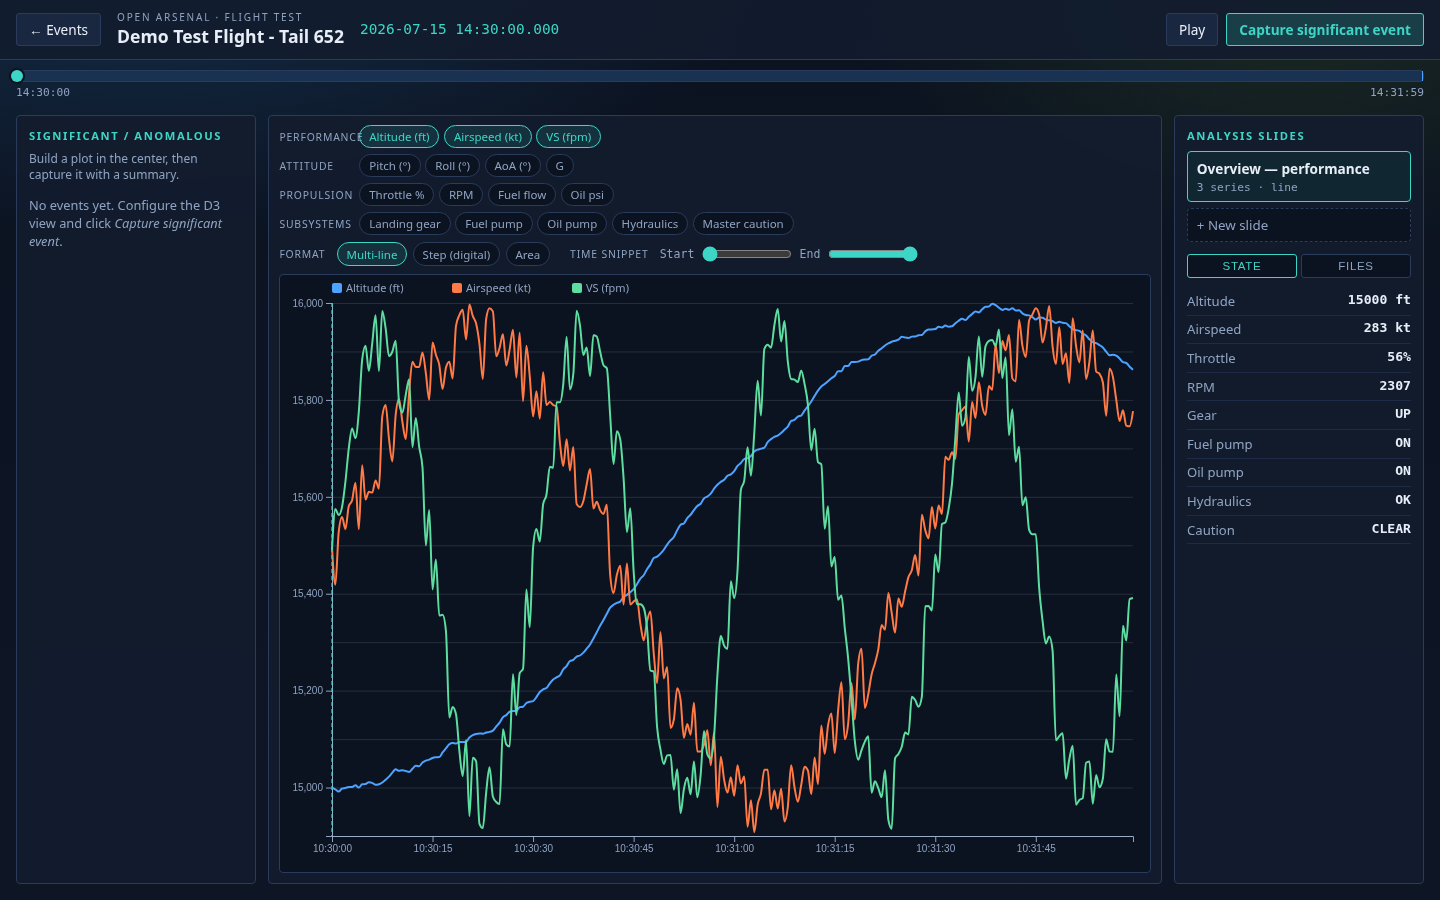
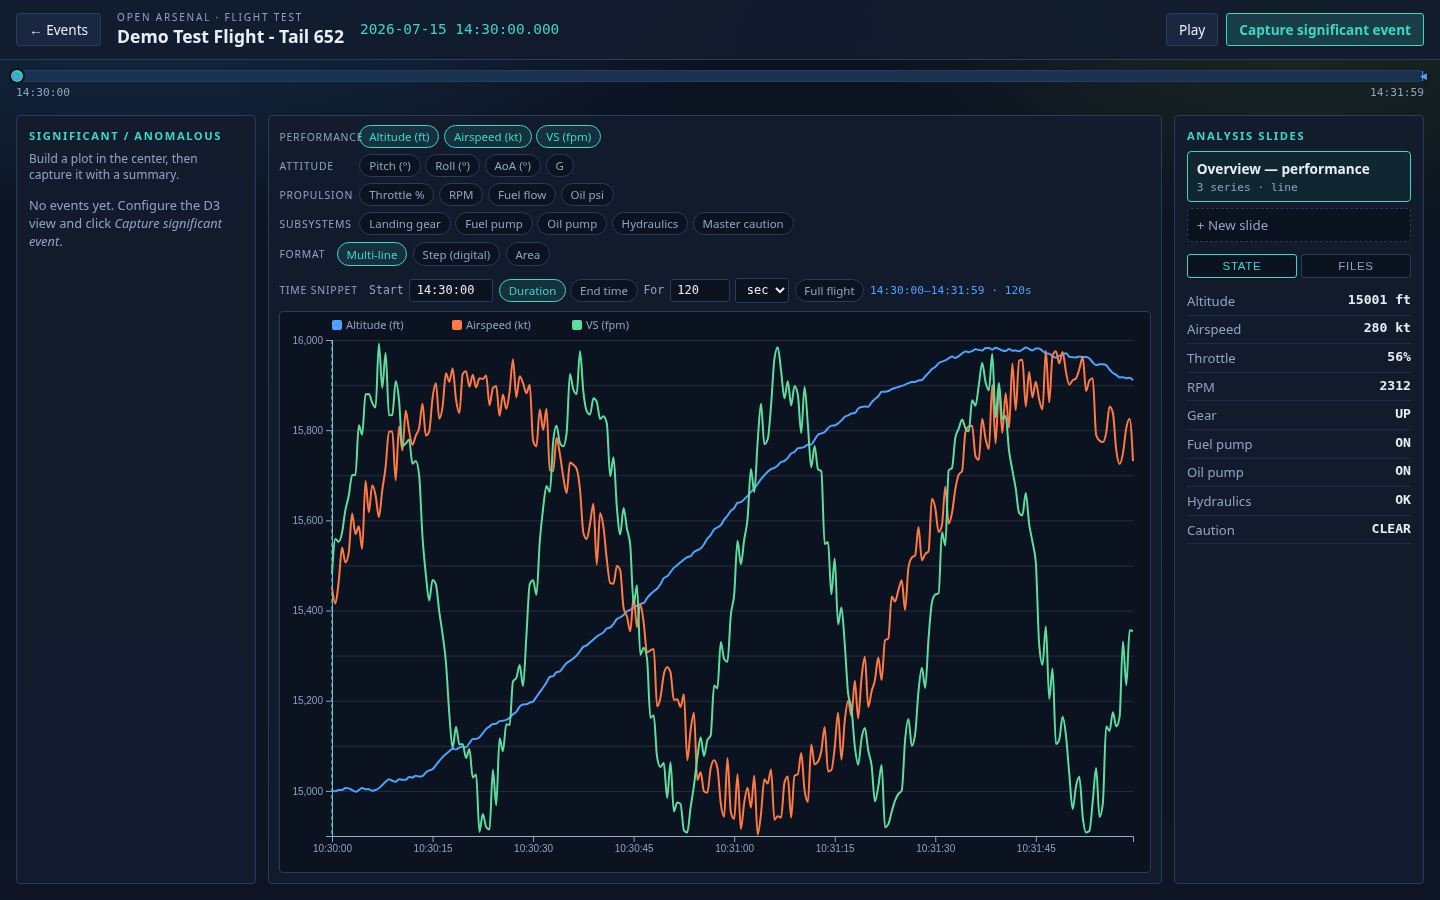
Time-based snippet entry: start time + duration/end-time modes + timeline markers
- Replace fraction sliders with a start time entry (HH:MM:SS UTC)
- Snippet end defined by a duration offset (sec/min) or an explicit
  end time, analyst-selectable mode toggle
- Draggable start (>) / end (<) markers on the timeline, kept in sync
  with the entries; Full flight reset; live window summary
- Capture modal shows the time window in times, not percentages
- Validation script step 4 extended: start entry + 30s duration,
  minute units, explicit end time, end-marker drag - all pass headless
- Gherkin scenarios, OpenSpec change (snippet-time-entry), README,
  and Beads updated

diff --git a/frontend/src/lib/AnalysisStation.svelte b/frontend/src/lib/AnalysisStation.svelte
@@ -98,6 +98,12 @@
   let plotFormat = 'line';
   let rangeStart = 0; // fraction 0..1
   let rangeEnd = 1;
+  const MIN_GAP = 0.02; // minimum snippet width as fraction of flight
+
+  // Time snippet definition mode: end time entry or duration offset from start
+  let snippetMode = 'duration'; // duration | end
+  let durationUnit = 'sec'; // sec | min
+  let draggingHandle = null; // 'start' | 'end' | null
 
   // Significant / anomalous events created by analyst
   let sigEvents = [];
@@ -112,6 +118,12 @@
   $: snapshot = parsed[currentIdx] || null;
   $: progress = parsed.length > 1 ? currentIdx / (parsed.length - 1) : 0;
   $: activeSlide = slides.find((s) => s.id === activeSlideId) || slides[0];
+  $: flightStartMs = parsed[0]?._date?.getTime() ?? 0;
+  $: flightSpanMs = Math.max(1, (parsed[parsed.length - 1]?._date?.getTime() ?? 0) - flightStartMs);
+  $: startLabel = parsed.length ? fracToHMS(rangeStart) : '';
+  $: endLabel = parsed.length ? fracToHMS(rangeEnd) : '';
+  $: snippetSecs = ((rangeEnd - rangeStart) * flightSpanMs) / 1000;
+  $: durationDisplay = durationUnit === 'min' ? +(snippetSecs / 60).toFixed(1) : Math.round(snippetSecs);
   $: windowData = (() => {
     if (!parsed.length) return [];
     const a = Math.floor(rangeStart * (parsed.length - 1));
@@ -125,6 +137,8 @@
 
   onDestroy(() => {
     if (playTimer) clearInterval(playTimer);
+    window.removeEventListener('pointermove', onHandleMove);
+    window.removeEventListener('pointerup', endHandleDrag);
   });
 
   async function runLoadingSequence() {
@@ -250,12 +264,94 @@
   function setRange(which, val) {
     const v = Math.max(0, Math.min(1, +val));
     if (which === 'start') {
-      rangeStart = Math.min(v, rangeEnd - 0.02);
+      rangeStart = Math.min(v, rangeEnd - MIN_GAP);
     } else {
-      rangeEnd = Math.max(v, rangeStart + 0.02);
+      rangeEnd = Math.max(v, rangeStart + MIN_GAP);
     }
     saveSlideConfig();
     drawPlot();
+  }
+
+  function fracToHMS(frac) {
+    return new Date(flightStartMs + frac * flightSpanMs).toISOString().slice(11, 19);
+  }
+
+  /** Parse "HH:MM:SS" (or "HH:MM") on the flight's UTC day → fraction of flight, or null. */
+  function hmsToFrac(str) {
+    const m = /^(\d{1,2}):(\d{2})(?::(\d{2}))?$/.exec(String(str).trim());
+    if (!m || !parsed.length) return null;
+    const d = new Date(flightStartMs);
+    d.setUTCHours(+m[1], +m[2], +(m[3] || 0), 0);
+    return Math.max(0, Math.min(1, (d.getTime() - flightStartMs) / flightSpanMs));
+  }
+
+  function onStartEntry(e) {
+    const f = hmsToFrac(e.currentTarget.value);
+    if (f == null) {
+      e.currentTarget.value = startLabel;
+      return;
+    }
+    if (snippetMode === 'duration') {
+      // keep the duration offset, slide the whole window
+      const width = Math.max(MIN_GAP, rangeEnd - rangeStart);
+      rangeStart = Math.min(f, 1 - MIN_GAP);
+      rangeEnd = Math.min(1, rangeStart + width);
+    } else {
+      rangeStart = Math.min(f, rangeEnd - MIN_GAP);
+    }
+    saveSlideConfig();
+    drawPlot();
+  }
+
+  function onEndEntry(e) {
+    const f = hmsToFrac(e.currentTarget.value);
+    if (f == null) {
+      e.currentTarget.value = endLabel;
+      return;
+    }
+    rangeEnd = Math.max(f, rangeStart + MIN_GAP);
+    saveSlideConfig();
+    drawPlot();
+  }
+
+  function onDurationEntry(e) {
+    const v = +e.currentTarget.value;
+    if (!isFinite(v) || v <= 0) {
+      e.currentTarget.value = durationDisplay;
+      return;
+    }
+    const secs = durationUnit === 'min' ? v * 60 : v;
+    const width = Math.max(MIN_GAP, (secs * 1000) / flightSpanMs);
+    rangeEnd = Math.min(1, rangeStart + width);
+    saveSlideConfig();
+    drawPlot();
+  }
+
+  function resetSnippet() {
+    rangeStart = 0;
+    rangeEnd = 1;
+    saveSlideConfig();
+    drawPlot();
+  }
+
+  function startHandleDrag(which, e) {
+    e.stopPropagation();
+    e.preventDefault();
+    draggingHandle = which;
+    window.addEventListener('pointermove', onHandleMove);
+    window.addEventListener('pointerup', endHandleDrag);
+  }
+
+  function onHandleMove(e) {
+    if (!draggingHandle || !timelineEl) return;
+    const rect = timelineEl.getBoundingClientRect();
+    setRange(draggingHandle, (e.clientX - rect.left) / rect.width);
+  }
+
+  function endHandleDrag() {
+    draggingHandle = null;
+    window.removeEventListener('pointermove', onHandleMove);
+    window.removeEventListener('pointerup', endHandleDrag);
   }
 
   function openCapture() {
@@ -474,6 +570,27 @@
             class="timeline-window"
             style="left: {rangeStart * 100}%; width: {(rangeEnd - rangeStart) * 100}%"
           ></div>
+          <!-- draggable snippet start / end handles -->
+          <button
+            type="button"
+            class="timeline-handle start"
+            class:dragging={draggingHandle === 'start'}
+            style="left: {rangeStart * 100}%"
+            title="Snippet start — drag to set ({startLabel})"
+            aria-label="Snippet start"
+            on:pointerdown={(e) => startHandleDrag('start', e)}
+            on:click|stopPropagation
+          >▶</button>
+          <button
+            type="button"
+            class="timeline-handle end"
+            class:dragging={draggingHandle === 'end'}
+            style="left: {rangeEnd * 100}%"
+            title="Snippet end — drag to set ({endLabel})"
+            aria-label="Snippet end"
+            on:pointerdown={(e) => startHandleDrag('end', e)}
+            on:click|stopPropagation
+          >◀</button>
         </div>
         <div class="timeline-labels mono">
           <span>{parsed[0]?._date?.toISOString().slice(11, 19) || ''}</span>
@@ -544,30 +661,68 @@
                 >
               {/each}
             </div>
-            <div class="range">
+            <div class="snippet">
               <span class="ctl-label">Time snippet</span>
-              <label class="mono"
+              <label class="mono snippet-field"
                 >Start
                 <input
-                  type="range"
-                  min="0"
-                  max="1"
-                  step="0.01"
-                  value={rangeStart}
-                  on:input={(e) => setRange('start', e.currentTarget.value)}
+                  class="time-in mono"
+                  type="text"
+                  inputmode="numeric"
+                  placeholder="HH:MM:SS"
+                  value={startLabel}
+                  on:change={onStartEntry}
                 />
               </label>
-              <label class="mono"
-                >End
-                <input
-                  type="range"
-                  min="0"
-                  max="1"
-                  step="0.01"
-                  value={rangeEnd}
-                  on:input={(e) => setRange('end', e.currentTarget.value)}
-                />
-              </label>
+              <div class="mode-toggle" role="group" aria-label="Snippet end definition">
+                <button
+                  type="button"
+                  class="chip"
+                  class:on={snippetMode === 'duration'}
+                  on:click={() => (snippetMode = 'duration')}>Duration</button
+                >
+                <button
+                  type="button"
+                  class="chip"
+                  class:on={snippetMode === 'end'}
+                  on:click={() => (snippetMode = 'end')}>End time</button
+                >
+              </div>
+              {#if snippetMode === 'duration'}
+                <label class="mono snippet-field"
+                  >For
+                  <input
+                    class="dur-in mono"
+                    type="number"
+                    min="1"
+                    step="any"
+                    value={durationDisplay}
+                    on:change={onDurationEntry}
+                  />
+                </label>
+                <select
+                  class="unit mono"
+                  aria-label="Duration unit"
+                  bind:value={durationUnit}
+                >
+                  <option value="sec">sec</option>
+                  <option value="min">min</option>
+                </select>
+              {:else}
+                <label class="mono snippet-field"
+                  >End
+                  <input
+                    class="time-in mono"
+                    type="text"
+                    inputmode="numeric"
+                    placeholder="HH:MM:SS"
+                    value={endLabel}
+                    on:change={onEndEntry}
+                  />
+                </label>
+              {/if}
+              <button type="button" class="chip" on:click={resetSnippet}>Full flight</button>
+              <span class="snippet-summary mono">{startLabel}–{endLabel} · {Math.round(snippetSecs)}s</span>
             </div>
           </div>
         </div>
@@ -631,7 +786,7 @@
         <p class="hint">
           Saves current D3 config: <strong>{selectedParams.join(', ')}</strong> · format
           <strong>{plotFormat}</strong> · time window
-          <span class="mono">{Math.round(rangeStart * 100)}%–{Math.round(rangeEnd * 100)}%</span>
+          <span class="mono">{startLabel}–{endLabel} ({Math.round(snippetSecs)}s)</span>
         </p>
         <label class="field">
           Severity
@@ -717,6 +872,14 @@
     position: absolute; top: 50%; width: 12px; height: 12px; margin-left: -6px; margin-top: -6px;
     border-radius: 50%; background: var(--accent); box-shadow: 0 0 0 2px var(--bg-deep); z-index: 2;
   }
+  .timeline-handle {
+    position: absolute; top: -8px; height: 26px; width: 16px; margin-left: -8px;
+    display: flex; align-items: center; justify-content: center; padding: 0;
+    background: transparent; border: none; color: var(--collect);
+    font-size: 9px; line-height: 1; cursor: ew-resize; z-index: 3;
+    text-shadow: 0 0 4px rgba(0, 0, 0, 0.8);
+  }
+  .timeline-handle:hover, .timeline-handle.dragging { color: var(--accent); transform: scale(1.35); }
   .timeline-labels { display: flex; justify-content: space-between; font-size: 0.7rem; color: var(--muted); margin-top: 0.25rem; }
 
   .station-main {
@@ -766,9 +929,18 @@
   .chip.on { border-color: var(--accent); color: var(--accent); background: color-mix(in srgb, var(--accent) 12%, transparent); }
   .builder-controls { display: flex; flex-wrap: wrap; gap: 0.75rem 1.25rem; align-items: center; }
   .ctl-label { font-size: 0.65rem; letter-spacing: 0.08em; text-transform: uppercase; color: var(--muted); margin-right: 0.35rem; }
-  .fmt, .range { display: flex; flex-wrap: wrap; align-items: center; gap: 0.35rem; }
-  .range label { display: flex; align-items: center; gap: 0.35rem; font-size: 0.72rem; color: var(--muted); }
-  .range input[type='range'] { width: 90px; accent-color: var(--accent); }
+  .fmt, .snippet { display: flex; flex-wrap: wrap; align-items: center; gap: 0.35rem; }
+  .snippet-field { display: flex; align-items: center; gap: 0.35rem; font-size: 0.72rem; color: var(--muted); }
+  .time-in, .dur-in, .unit {
+    background: var(--bg-deep); border: 1px solid var(--line); color: var(--text);
+    border-radius: 3px; padding: 0.22rem 0.4rem; font-size: 0.75rem;
+  }
+  .time-in { width: 84px; }
+  .time-in:focus, .dur-in:focus, .unit:focus { outline: none; border-color: var(--accent); }
+  .dur-in { width: 60px; }
+  .unit { padding-right: 0.2rem; }
+  .mode-toggle { display: flex; gap: 0.25rem; }
+  .snippet-summary { font-size: 0.7rem; color: var(--collect); }
   .plot { flex: 1; min-height: 240px; background: var(--bg-deep); border: 1px solid var(--line); border-radius: 4px; }
 
   .slide-list { display: flex; flex-direction: column; gap: 0.35rem; margin-bottom: 0.75rem; }

diff --git a/README.md b/README.md
@@ -73,7 +73,10 @@ sequenceDiagram
 
 - **Loading sequence** — selected event, associated data products, time index
 - **Plot builder** — grouped parameter chips (Performance / Attitude / Propulsion /
-  Subsystems), formats (multi-line, step/digital, area), time-snippet sliders
+  Subsystems), formats (multi-line, step/digital, area)
+- **Time snippet** — start time entry (HH:MM:SS) with either a duration offset
+  (secs / mins) or an explicit end time; draggable ▶/◀ markers on the timeline
+  stay in sync with the entries; "Full flight" resets the window
 - **Analysis slides** — named, saved plot configurations; "+ New slide" to branch
 - **Significant / anomalous events** — capture the current view with a severity
   (note / anomaly / critical) and summary; recall restores the exact configuration
@@ -139,7 +142,8 @@ cd frontend && npm install && npm run dev
 Spec-driven via OpenSpec + Gherkin + Beads:
 
 - Specs: [openspec/specs/flight-test-data/](openspec/specs/flight-test-data/)
-- Latest change: [openspec/changes/immersive-analysis-station/](openspec/changes/immersive-analysis-station/)
+- Latest changes: [openspec/changes/snippet-time-entry/](openspec/changes/snippet-time-entry/),
+  [openspec/changes/immersive-analysis-station/](openspec/changes/immersive-analysis-station/)
 - Gherkin: [features/flight-test-data.feature](features/flight-test-data.feature),
   [features/analysis-station.feature](features/analysis-station.feature)
 - Roadmap: Beads issues (`bd list`) — upload, watched-directory ingest, `.mat`

diff --git a/openspec/changes/snippet-time-entry/specs/flight-test-analysis/spec.md b/openspec/changes/snippet-time-entry/specs/flight-test-analysis/spec.md
@@ -1,0 +1,30 @@
+# Spec Delta: Time-Based Snippet Entry
+
+## MODIFIED Requirement: Interactive D3 plot builder (time snippet)
+
+The plotted time snippet SHALL be defined in flight time, not abstract fractions:
+a start time entry plus either a duration offset (seconds or minutes) or an
+explicit end time, with equivalent draggable start/end markers on the timeline.
+
+### Scenario: Start time plus duration offset
+- **GIVEN** the analysis station is ready
+- **WHEN** the analyst enters start time 14:31:00 and a duration of 30 seconds
+- **THEN** the plot re-renders for 14:31:00–14:31:30
+- **AND** changing the unit to minutes redisplays the same offset (0.5 min)
+
+### Scenario: Explicit end time
+- **GIVEN** a snippet starting at 14:31:00
+- **WHEN** the analyst switches to End time mode and enters 14:31:50
+- **THEN** the plot re-renders for 14:31:00–14:31:50
+- **AND** an end time at or before the start is clamped to a minimum window
+
+### Scenario: Timeline markers
+- **GIVEN** a defined snippet
+- **WHEN** the analyst drags the ▶ start or ◀ end marker on the timeline
+- **THEN** the snippet window, time entries, and plot update live
+- **AND** invalid text entries are rejected and the previous value restored
+
+### Scenario: Full-flight reset
+- **GIVEN** a narrowed snippet
+- **WHEN** the analyst clicks "Full flight"
+- **THEN** the snippet spans the entire recording

diff --git a/openspec/changes/snippet-time-entry/proposal.md b/openspec/changes/snippet-time-entry/proposal.md
@@ -1,0 +1,22 @@
+# Proposal: Time-Based Snippet Entry
+
+## Why
+
+The plot builder's time snippet was two abstract 0–1 fraction sliders. Flight test
+analysts think in timestamps and offsets ("30 seconds starting at 14:31:00"), not
+percentages of the recording.
+
+## Scope (this change)
+
+- Replace fraction sliders with a **start time entry** (HH:MM:SS, UTC)
+- Snippet end defined either by a **duration offset** (secs or mins from start)
+  or by an **explicit end time entry** — analyst-selectable mode toggle
+- **Draggable start (▶) and end (◀) markers on the timeline** as a direct
+  alternative to typed entry; entries and markers stay in sync
+- "Full flight" reset and a live window summary (start–end · seconds)
+- Capture modal and slides now describe windows in times, not percentages
+
+## Out of Scope
+
+- Snapping markers to detected discrete transitions
+- Multiple simultaneous snippets / comparison windows

diff --git a/openspec/changes/snippet-time-entry/tasks.md b/openspec/changes/snippet-time-entry/tasks.md
@@ -1,0 +1,18 @@
+# Tasks – Time-Based Snippet Entry
+
+## Implemented
+
+- [x] Start time entry (HH:MM:SS) with validation and clamp to flight range
+- [x] Duration mode: numeric offset + sec/min unit; end = start + offset
+- [x] End-time mode: explicit HH:MM:SS entry, clamped after start
+- [x] Draggable ▶ start / ◀ end markers on the timeline (pointer events)
+- [x] "Full flight" reset + live snippet summary (start–end · seconds)
+- [x] Capture modal shows the time window instead of percentages
+- [x] Slides / captured events unchanged internally (still store fractions)
+
+## Verified
+
+- [x] Production build succeeds
+- [x] `scripts/capture-screenshots.mjs` step 4 extended: start entry + 30 s
+      duration, minute units, explicit end time, and end-marker drag — all pass
+      headless with zero console errors
